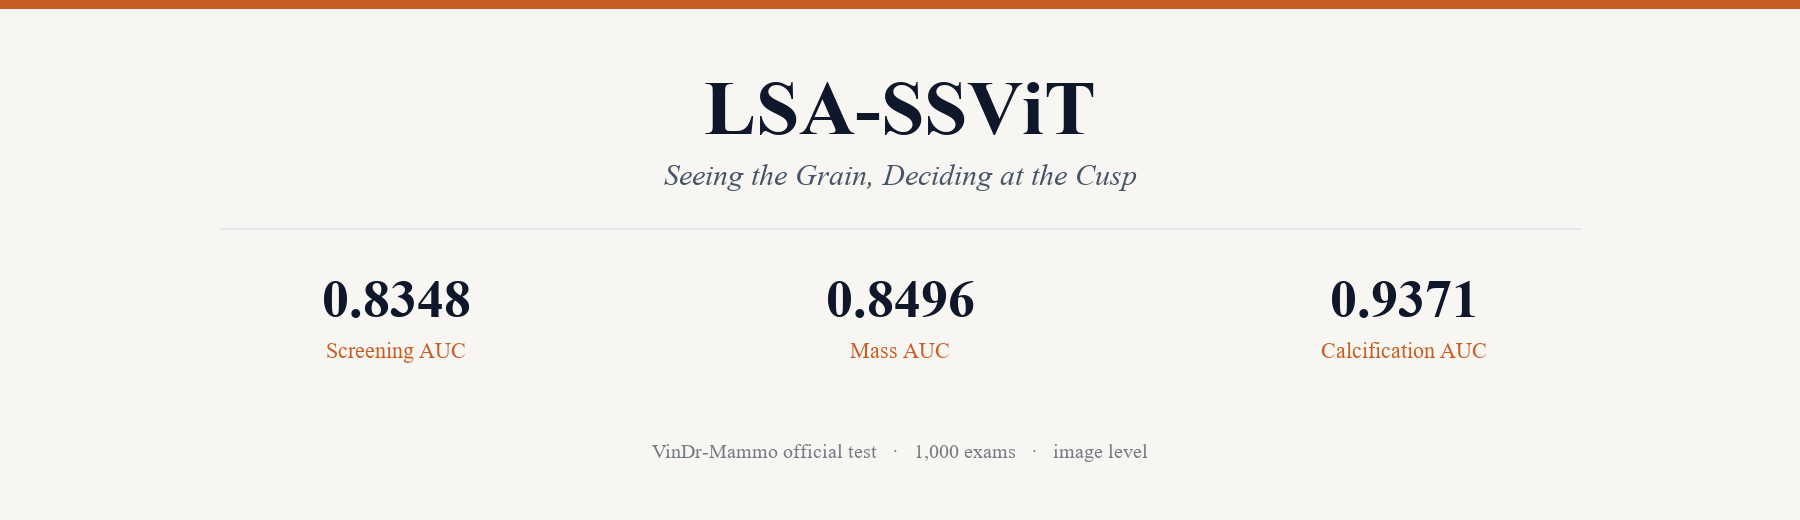
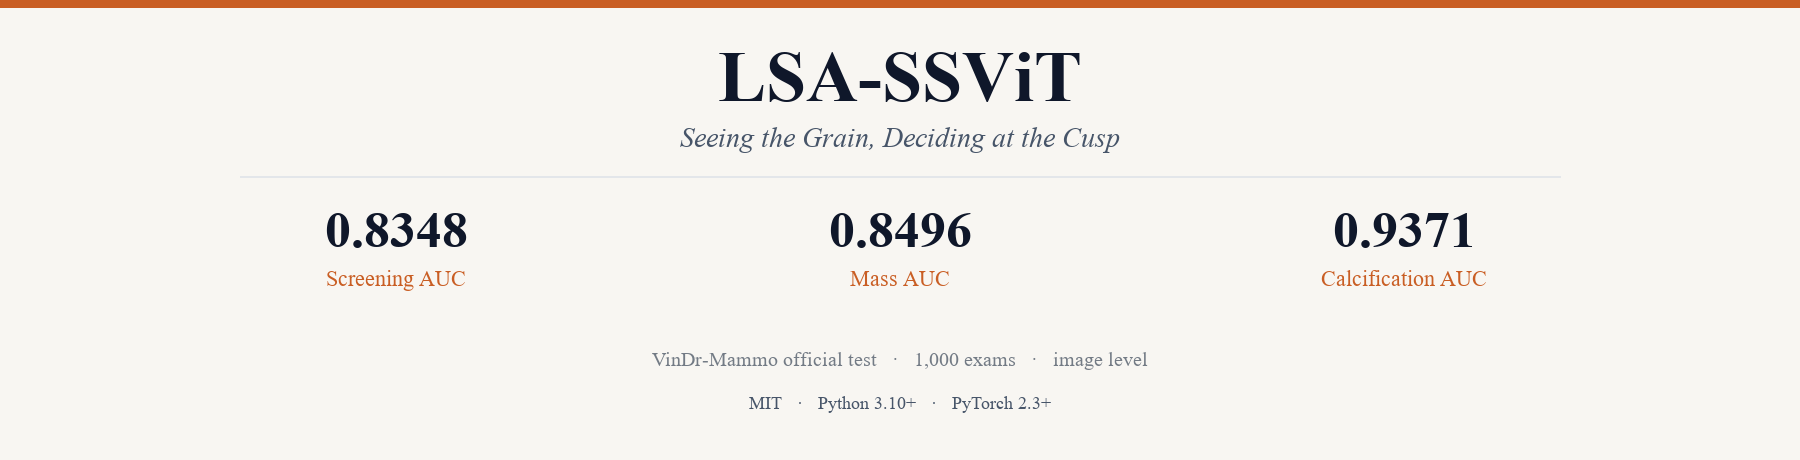
Tighten the repository header and label the file tables.
Remove the repeated title under the banner so the page opens on the result, then the paper.

diff --git a/README.md b/README.md
@@ -2,14 +2,7 @@
   <img src="assets/readme_header.png" alt="LSA-SSViT. VinDr-Mammo official test, image level: screening AUC 0.8348, mass AUC 0.8496, calcification AUC 0.9371." width="880">
 </p>
 
-<p align="center">
-  <code>MIT</code> &nbsp;&nbsp; <code>Python 3.10+</code> &nbsp;&nbsp; <code>PyTorch 2.3+</code>
-</p>
-
-<p align="center">
-  Official implementation of<br>
-  <b>Seeing the Grain, Deciding at the Cusp: Lesion-Scale and Clinically Guided Adaptation of a Vision Foundation Model for Multi-task Mammography Screening</b>
-</p>
+This repository is the official implementation of **Seeing the Grain, Deciding at the Cusp: Lesion-Scale and Clinically Guided Adaptation of a Vision Foundation Model for Multi-task Mammography Screening**.
 
 LSA-SSViT adapts a DINOv3 ViT-B/16 backbone at 1024 × 1024 with [GRAIN](#method) and [CUSP](#method). From one image it predicts a BI-RADS screening decision (BI-RADS 3–5 vs 1–2), whether a mass is present, and whether suspicious calcifications are present.
 
@@ -55,7 +48,7 @@ python train.py --cache-root outputs/cache/vindr_1024 --experiment-name LSA-SSVi
 
 `--image-root` is the folder that contains one sub-folder per exam (`<study_id>/<image_id>.dicom`). What the cache contains is described in [Preprocessing](#preprocessing). `train.py` and `evaluate.py` can also preprocess on the fly with `--image-root`, which differs from the cache only by the uint16 rounding (about 7.6e-6 per pixel).
 
-| | Setting used in the paper |
+| Setting | Value used in the paper |
 | --- | --- |
 | Optimizer | AdamW, weight decay 1e-4 |
 | Learning rate | 2e-4 for the classifier and GRAIN; 1e-4 for the last four backbone blocks and the final LayerNorm. The rest of the backbone is frozen. |
@@ -147,6 +140,8 @@ GRAIN is implemented in `core.py` (class `GRAIN`, used by `BreastClassifier`) an
 
 The four models (Baseline, +GRAIN, +CUSP and LSA-SSViT) are called `baseline`, `grain`, `cusp` and `LSA-SSViT` in file and folder names. `figures/` and `paper/` are not part of this repository. The plotting scripts write `figures/` locally, and the figure legends are in the paper.
 
+### Code
+
 | Path | Contents |
 | --- | --- |
 | `core.py` | preprocessing, cache, dataset, model (DINOv3 + GRAIN), CUSP loss |
@@ -157,6 +152,8 @@ The four models (Baseline, +GRAIN, +CUSP and LSA-SSViT) are called `baseline`, `
 | `SHA256SUMS.txt` | checksums of released results and of the four checkpoints |
 | `LICENSE` | MIT License |
 | `assets/readme_header.png` | header of this page |
+
+### Scripts
 
 | Path | Contents |
 | --- | --- |
@@ -173,6 +170,8 @@ The four models (Baseline, +GRAIN, +CUSP and LSA-SSViT) are called `baseline`, `
 | `comparators/train_comparator.py` | re-training and evaluation of a comparator |
 | `comparators/prepare_weights.py` | download of the comparators' pretrained weights |
 | `comparators/summarize.py` | whole-model comparison table |
+
+### Released files
 
 | Path | Contents |
 | --- | --- |
